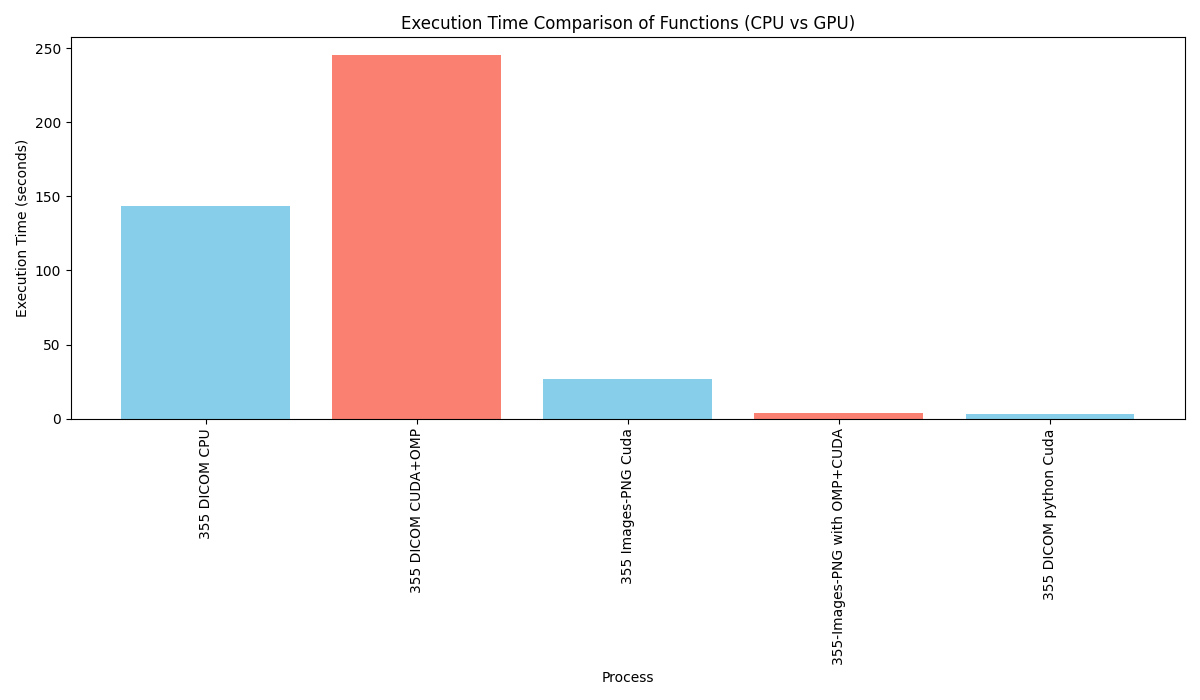
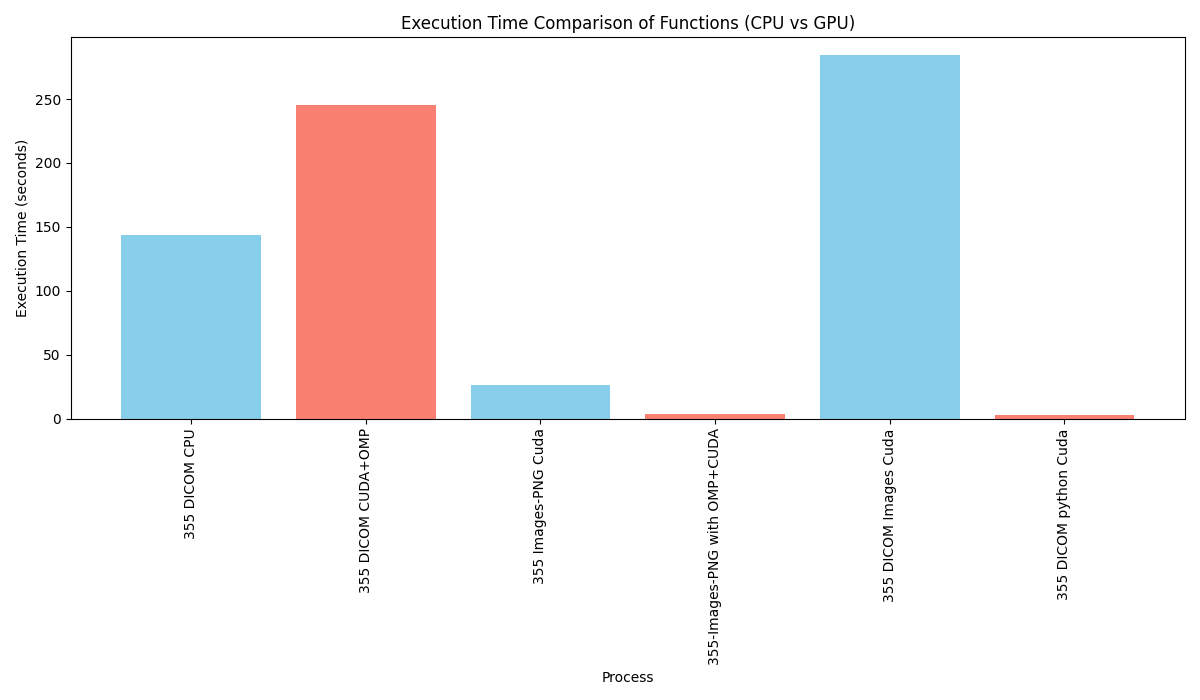
update graph

diff --git a/plot_total.py b/plot_total.py
@@ -19,13 +19,15 @@ def plot_execution_times(times_cpu,
                          python_impl,
                          omp,
                          cuda_png,
+                         cuda_dicm,
                          name):
     cpu = pd.DataFrame({"fn": ["355 DICOM CPU"], "time": [times_cpu[0]]})
     gpu_omp = pd.DataFrame({"fn": ["355 DICOM CUDA+OMP"], "time": [times_gpu[0]]})
     omp= pd.DataFrame({"fn": ["355-Images-PNG with OMP+CUDA"], "time": [omp[0]]})
     python = pd.DataFrame({"fn": ["355 DICOM python Cuda"], "time": [python_impl[0]]})
     cuda_png= pd.DataFrame({"fn": ["355 Images-PNG Cuda"], "time": [cuda_png[0]]})
-    data = pd.concat([cpu, gpu_omp,cuda_png , omp, python]).reset_index(drop=True)
+    cuda_dicm= pd.DataFrame({"fn": ["355 DICOM/V Images Cuda"], "time": [cuda_dicm[0]]})
+    data = pd.concat([cpu, gpu_omp,cuda_png , omp, cuda_dicm, python]).reset_index(drop=True)
     plt.figure(figsize=(12, 7))
     plt.bar(data["fn"], data["time"], color=["skyblue", "salmon"])
     plt.xlabel('Process')
@@ -42,4 +44,6 @@ if __name__ == "__main__":
     _, python_impl= read_csv("./benchmark_times.csv")
     _, omp_cuda_png= read_csv("./total_gpu_png_omp.csv")
     _, cuda_png= read_csv("./total_gpu_png.csv")
-    plot_execution_times(times_cpu, times_gpu, python_impl, omp_cuda_png, cuda_png, "total_time_comparison.png")
+    _, cuda_dicm= read_csv("./total_gpu_omp_cuda_only.csv")
+    plot_execution_times(times_cpu, times_gpu, python_impl, 
+                         omp_cuda_png, cuda_png, cuda_dicm, "total_time_comparison.png")
